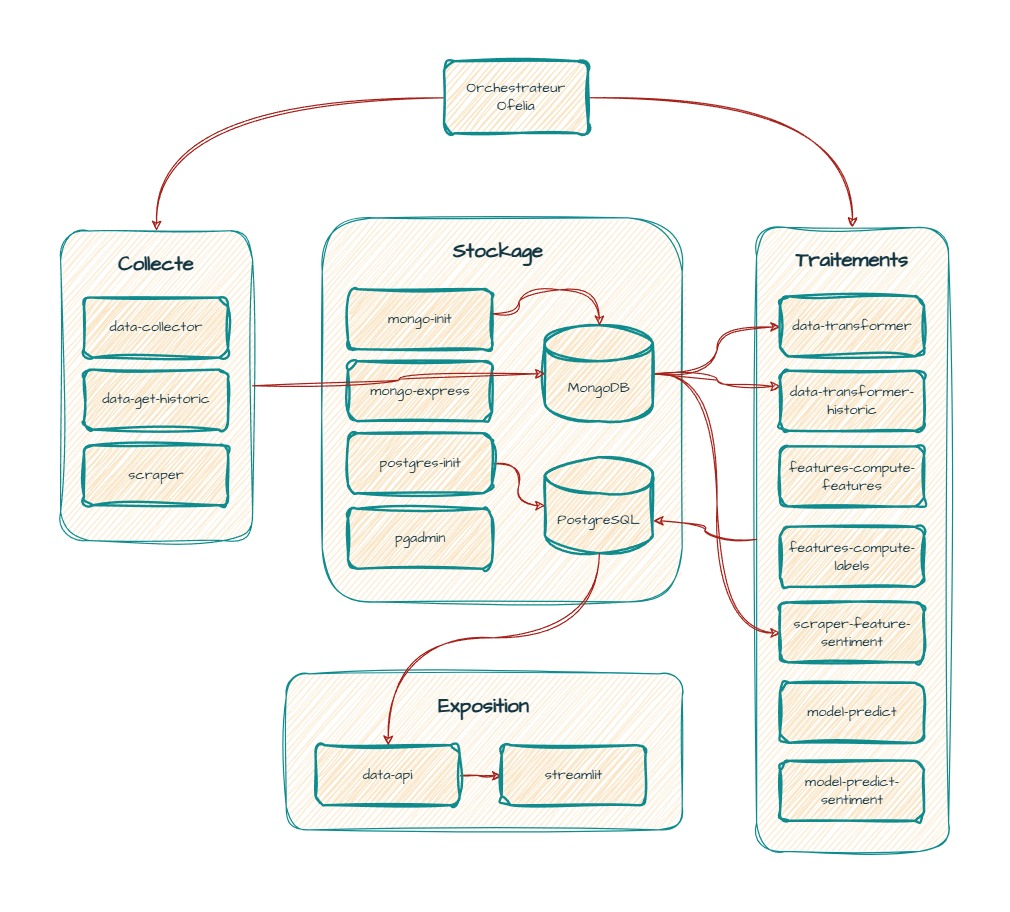
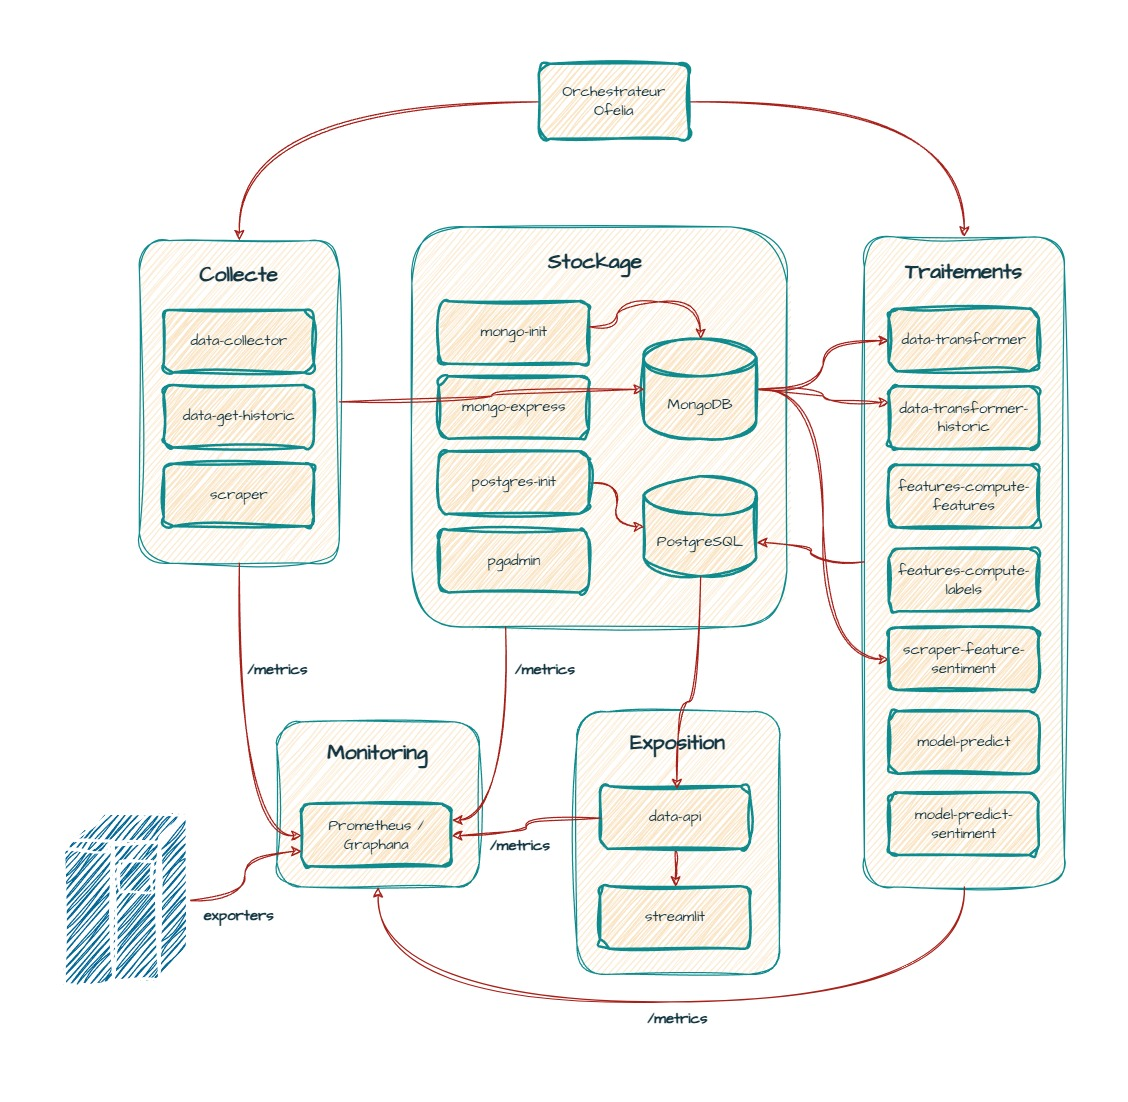
Add monitoring in architecture slide

Changed region(s): [[0.0614, 0.0307, 0.9515, 0.9518], [0.0614, 0.7368, 0.2455, 0.8904], [0.6446, 0.1842, 0.6752, 0.2149]]

diff --git a/src/visualization/streamlit/slides/architecture.py b/src/visualization/streamlit/slides/architecture.py
@@ -13,7 +13,8 @@ with left:
     bullets([
         "<strong>Docker Compose</strong><br/>Les services techniques sont isolés et reproductibles.",
         "<strong>MongoDB & PostgreSQL</strong><br/>MongoDB conserve les données brutes alors que PostgreSQL conserve les données structurées pour l'entrainement, la prédiction, et la visualisation.",
-        "<strong>FastAPI & Streamlit</strong><br/>L’API expose les données et Streamlit rend le projet lisible et démontrable au travers de différents dashboard."
+        "<strong>FastAPI & Streamlit</strong><br/>L’API expose les données et Streamlit rend le projet lisible et démontrable au travers de différents dashboard.",
+        "<strong>Prometheus + Grafana</strong><br/>La supervision suit l’état de la machine, de FastAPI et de Docker afin d’identifier rapidement erreurs, lenteurs ou saturation."
     ])
 with right:
     show_image("services_docker.jpg", "Organisation des principaux services applicatifs.")
